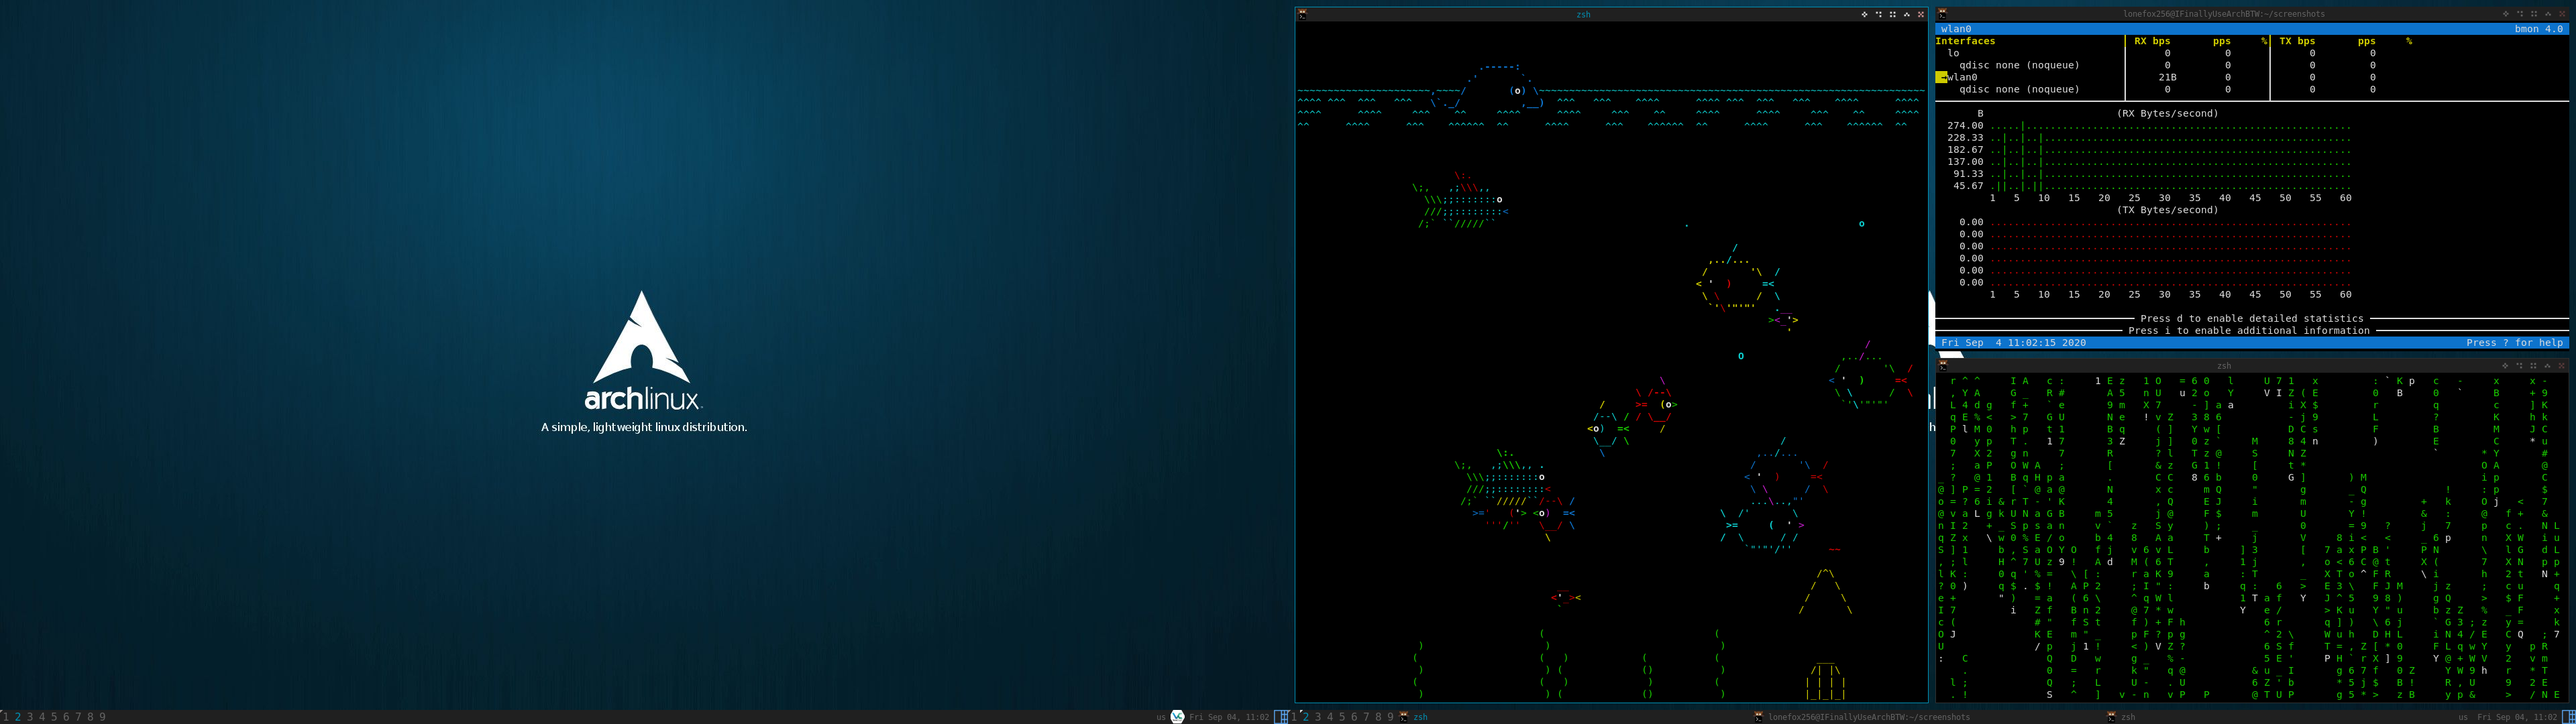
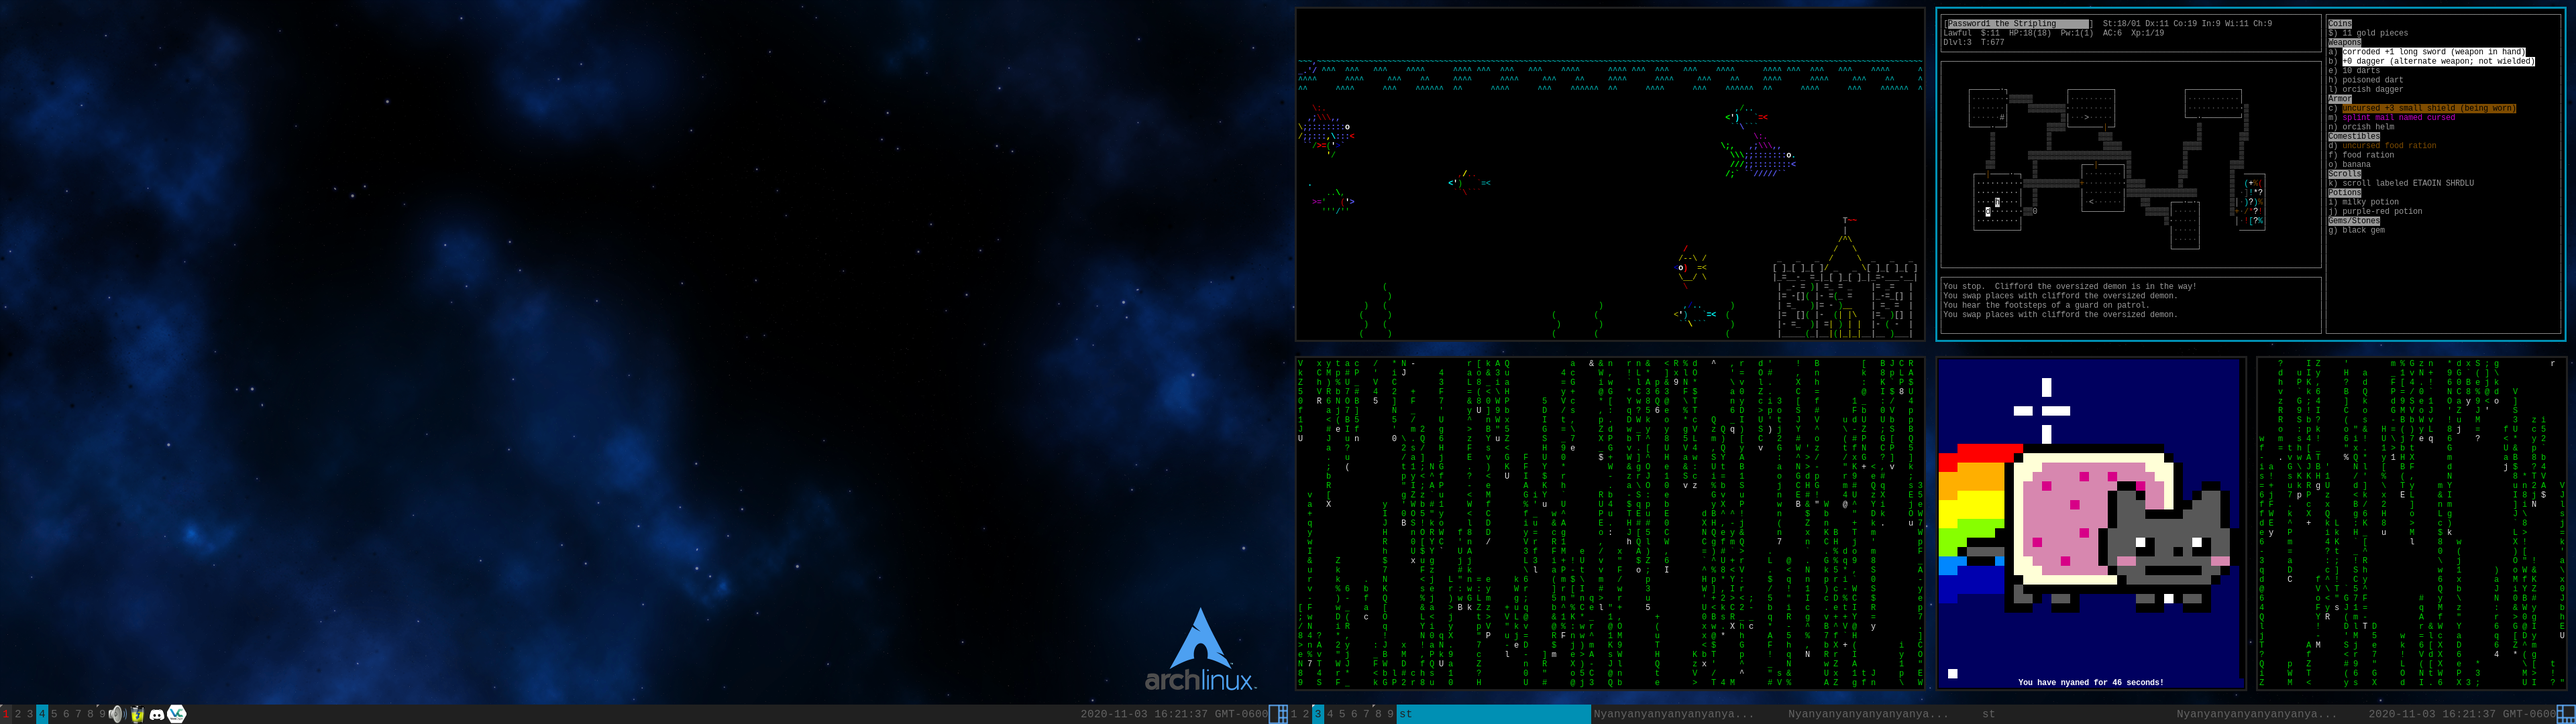
rc.lua 3.0
Made major changes, mostly to try to make the best of this noob mistake I made. I added a much better wallpaper, gave the UI a monospace hacker theme, and added my own personal preferences as well as cleaning everything up. I don't know how to add files to this commit that go down into themes/kiss/, so I will have to make separate commits for them.

diff --git a/README.md b/README.md
@@ -1,113 +1,40 @@
 # archKiss for AwesomeWM 4.3-2 or 4.X
 
-There aren't too many changes. I like this theme and this is my own modification to it.
-
-### Changes:
-* Changed the font from 'sans' to 'mono'
-* Added a 5px vanity gap
-* Removed the "random wallpaper" (I don't know how to fix it.)
-* Added the missing icons for cornernw, cornerne, cornersw, cornerse
-* Commented out the widget icons
-
-*All changes are listed in the code itself and can be reverted individually if you wish.*
+Making this fork was probably a mistake, because at the time I didn't know much about Github and I had just joined, but I'll try to make the best of it.
 
 *Please change the home folder in theme.lua and theme_default.lua to your home folder. The wallpaper path is ~/.wallpaper, so you will have to either change it or put a file there.*
 
-This is my theme and configuration file for Awesome 4.x WM inspired by Archlinux dark colors and KISS (Keep it simple stupid) philosophy. 
-It uses icons from other [great awesome themes](https://github.com/mikar/awesome-themes) (see credits for details).
-I using it with GTK adawaita dark theme available for GTK 3 and GTK 2 (and now included in default GTK).
-Recently introcuded some great ideas from [awesome-copycats](https://github.com/copycat-killer/awesome-copycats).
-
-## Configuration
-
-I have some variable to control what to show in the panel bar on top, you can customize as you wish.
-I have also some variable to control what default applications to use. In the configuration the default applications labels are used instead of program name,
-e.g. browser instead of Chromium, so it remains quite solid.
-By beautiful you can choose between two themes:
-* theme_default.lua: heavily based on default colors
-* theme.lua: extends the default colors
-
-```lua
--- Themes define colours, icons, and wallpapers
-beautiful.init("/home/lg/.config/awesome/themes/kiss/theme_default.lua")
-
--- User / hostname info
-user_hostname = false
-
--- Kernel version monitoring
-kernel_mon = true
-
--- Uptime
-uptime = false
-
--- Nic interfaces to monitor, fifo
-nics = {"enp0s25", "wlo1"}
-
--- Maildir monitor, false or maildir location
-mail_mon = false
-
--- Switch to enable hwmonitor
-hwmonitor = true
-
--- Switch to enable battery monitoring
-laptop = true
-
--- Mountpoint(s) to monitor
-mounts = " /: ${/ used_p}% ~: ${/home used_p}%"
-
--- Enable full calendar on 2nd monitor
-full_cal = true
-
--- Enable mpd bar
-mpd = true
-
--- Enable spotify bar
-spotify = true
-
--- This is used later as the default applications to run.
-terminal = "urxvt"
-browser = "firefox"
-editor = "gvim"
-email = terminal .. " -e neomutt"
-email_gui = "thunderbird"
-pad = "leafpad"
-pim = terminal .. " -title pim -e tmuxp load pim"
-news = terminal .. " -title news -e tmuxp load news"
-note = terminal .. " -title note -e tmuxp load note"
-filemanager = terminal .. " -e ranger"
-task = "lxtask"
-im = "pidgin"
-irc = terminal .. " -title irc -e weechat"
-teams = "teams"
-music = terminal .. " -e ncmpcpp"
-music_toggle = "mpc toggle"
-music_stream = "spotify"
-music_stream_toggle = "sp play"
-music_stream_data = "sp current-oneline"
-media = "mpv"
---password = "pass -c master"
-password = "rofi-pass"
-clipboard = "rofi -modi \"clipboard:greenclip print\" -show clipboard -run-command '{cmd}'; xdotool type --clearmodifiers $(xclip -o -selection clipboard)"
-vm = "virtualbox"
-remote = "remmina"
-runner = "rofi -show run"
-wswitcher = "rofi -show window"
-bright_down = "xbacklight -dec 10"
-bright_up = "xbacklight -inc 10"
-audio_toggle = "mpc toggle"
-lock = "i3lock-fancy"
-poweroff = "sudo poweroff"
-reboot = "sudo reboot"
-```
 ## Screenshot
 
 ![archKiss](archKiss.png)
 
+## Dependencies
+### Finally, I decided to list all the modules that this repo uses to work fully right here, so your job is easier. Note that not all these are completely necessary, and many of them are just apps that I bound to a key combo.
+* st - Default terminal
+* firefox - Default browser
+* nvim - Default text editor
+* batterymon-clone (AUR) - System tray applet
+* pasystray - System tray applet
+* scrot - To take screenshots with the Print key
+* slock - To lock the screen using Super+Esc
+### Apps I use that were bounded to a key in rc.lua:
+* discord - Discord messenger (Pretty trash but all my friends use it so I had to, I'm sorry)
+* lutris - Lutris game manager
+* veracrypt - I need this to manage my encrypted external hard drive
+* keepassxc - I use this as my personal password manager
+* I use Tor Browser and have a keybind to open it, however, I have to use a workaround by creating a script in $PATH called "launch_tor" that starts Tor for me with Super+Shift+e, so if you use this, you will have to create the same script.
+* leafpad - GUI text editor used as a pastebin along with Tor browser
+
+## Workarounds
+* If you want to use Tor Browser, create a script called $PATH/launch_tor, that starts Tor Browser. I have trouble launching the .desktop file directly.
+* You may have to create the directory called ~/screenshots yourself, because when I configure rc.lua to do that automatically, it breaks.
+Any fixes in the form of pull requests are welcome.
+
 ## Credits
-* lgaggini: the original theme
+* Github - lgaggini: the original theme
 * Taglists squares: dust awesome theme by tdy
-* Titlebar icons: zenburn awesome theme by Adrian C. (anrxc)
-* Layout icons: grey-new awesome theme by Andreas Persson (greyscale, grey)
-* Widget icons: sunjack awesome theme by ?
-* Screenshoot wallpaper: [Archlinux wallpaper by giancarlo64](https://www.deviantart.com/giancarlo64/art/ArchLinux-Wallpaper-360078960)
-* Screenshot wallpaper for Lonefox256 fork: [Archlinux wallpaper](https://www.wallpaperaccess.com/download/arch-linux-1776168) (it's a stock image and I wasn't sure how to link it here)
+* Layout icons: grey-new awesome theme by Andreas Persson (greyscale, grey) ---- Lonefox256 for the cornernw, cornerne, cornersw, cornerse icons.
+* Wallpaper used in screenshot:
+	[https://www.gnome-look.org/p/1319236](https://www.gnome-look.org/p/1319236)
+	Author: Charlie Henson - https://www.pling.com/u/charlie-henson/
+	License: (none that I managed to find)
